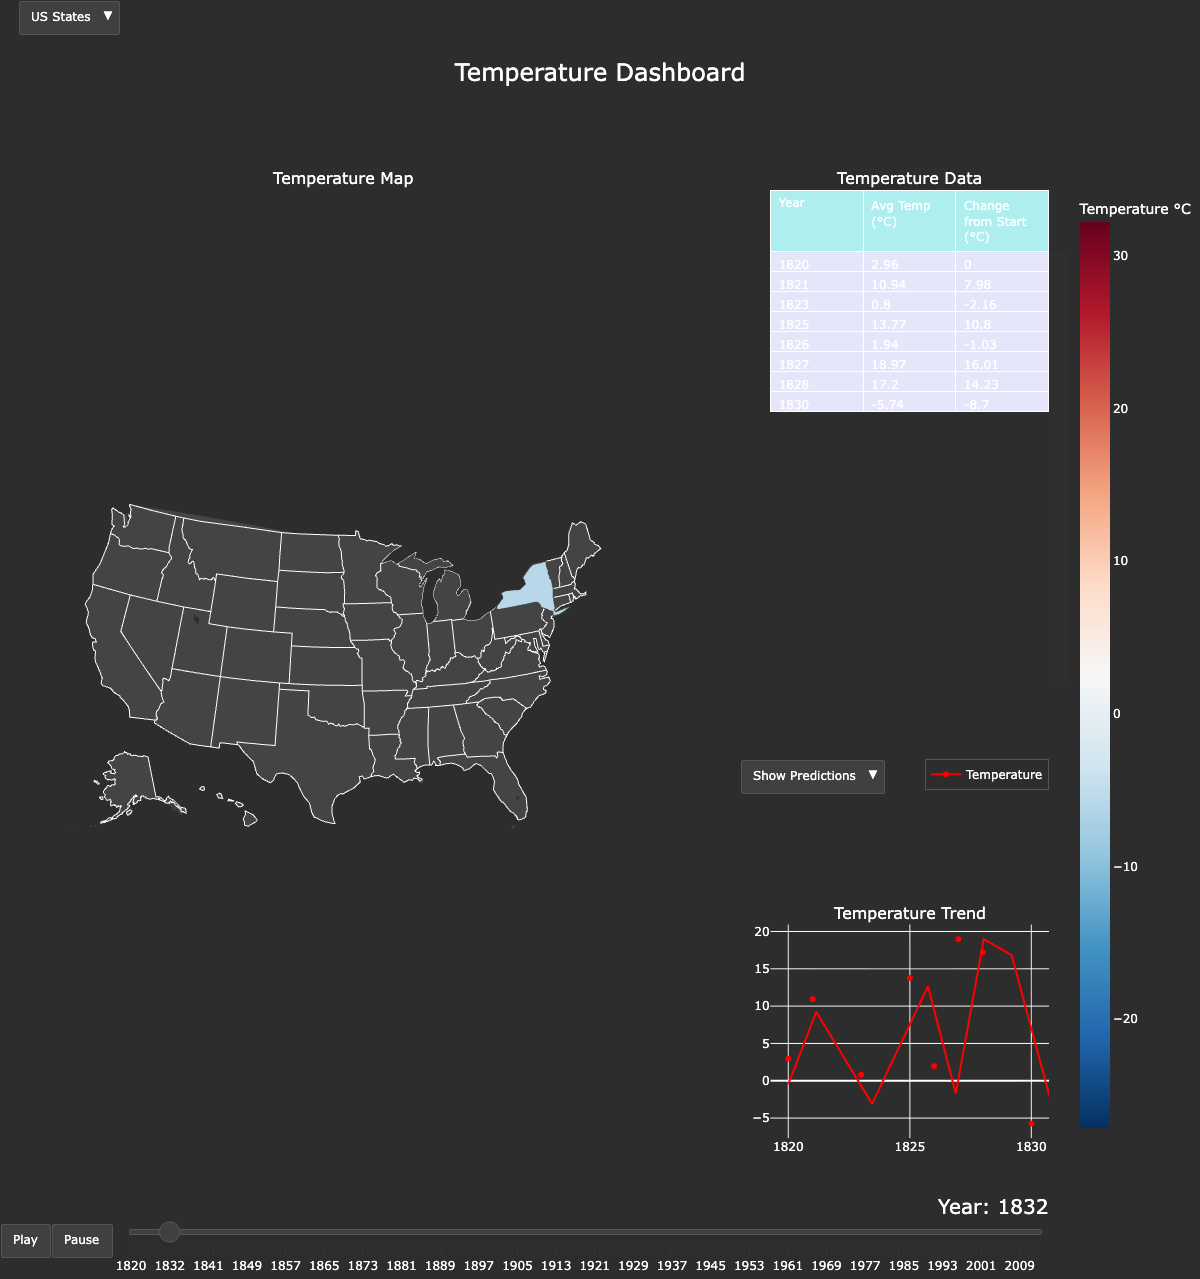
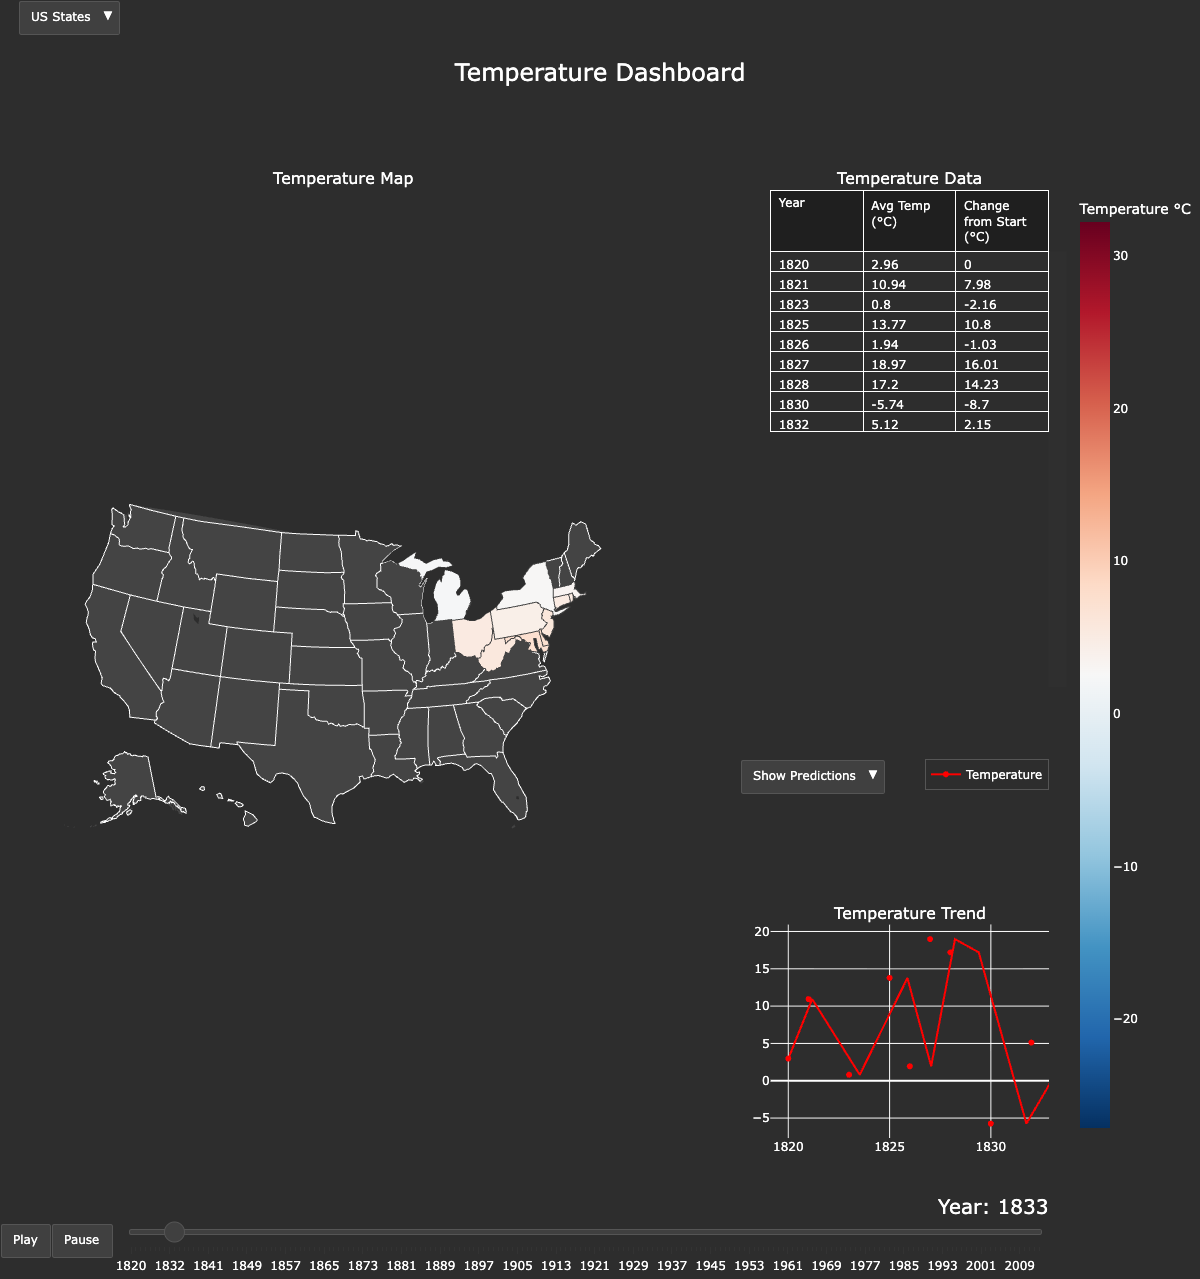
Fix data table to use dark theme consistently
Animation frames were using light paleturquoise/lavender colors
while the rest of the dashboard was dark themed.

diff --git a/src/visualization.py b/src/visualization.py
@@ -152,7 +152,8 @@ def _build_frames(us_data, country_data, us_trend,
                 go.Table(
                     header=dict(
                         values=["Year", "Avg Temp (°C)", "Change from Start (°C)"],
-                        fill_color="paleturquoise", align="left",
+                        fill_color=THEME["surface"], align="left",
+                        font=dict(color=THEME["text"], size=12),
                     ),
                     cells=dict(
                         values=[
@@ -160,7 +161,8 @@ def _build_frames(us_data, country_data, us_trend,
                             np.round(trend_to_year["AverageTemperature"], 2),
                             np.round(trend_to_year["TempChange"], 2),
                         ],
-                        fill_color="lavender", align="left",
+                        fill_color=THEME["bg"], align="left",
+                        font=dict(color=THEME["text"]),
                     ),
                 ),
                 go.Scatter(
